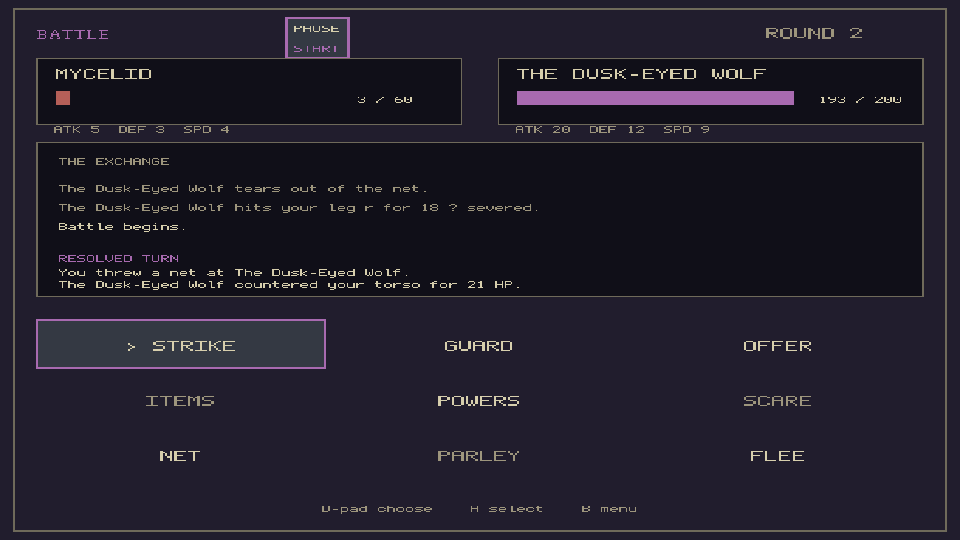
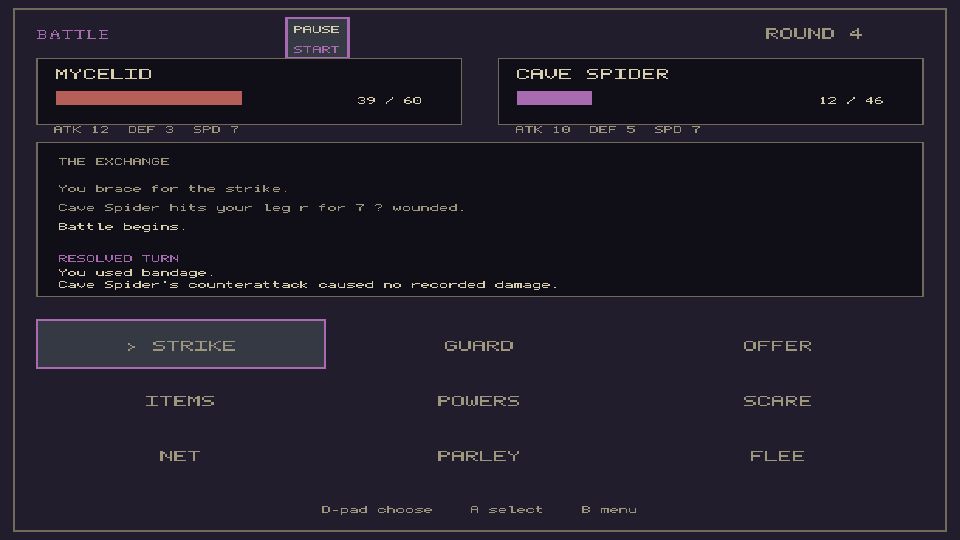
Page: disabled limbs go black and can be bandaged; new battle captures

diff --git a/index.html b/index.html
@@ -247,7 +247,7 @@ footer p+p{margin-top:.8rem}
   <div class="wrap">
     <p class="eyebrow">Captured from the released build</p>
     <h2 class="reveal">Two screens, one game.</h2>
-    <p class="lede reveal">Every frame on this page is a screenshot of the released APK. Nothing is mocked up.
+    <p class="lede reveal">Every frame on this page is a screenshot of the game running. Nothing is mocked up.
       The wide frame is the world display. The smaller ones are the lower display, a real second screen
       that the launcher sets up for you. Click any shot to enlarge it.</p>
 
@@ -292,22 +292,27 @@ footer p+p{margin-top:.8rem}
   <div class="wrap">
     <p class="eyebrow">Battle</p>
     <h2 class="reveal">Aim for the leg. It will aim for yours.</h2>
-    <p class="lede reveal">Fights are turn-based and physical. You pick which part to strike, the creature does
-      the same, and what gets severed stays severed. Losing does not always mean dying.</p>
+    <p class="lede reveal">Fights are turn-based and physical. You pick which part to strike, and the creature does
+      the same. A part beaten to zero goes black and stops working: a dead leg slows you, a dead arm weakens your
+      blows. It mends over time, or you can bandage it mid-fight. Losing does not always mean dying.</p>
 
     <figure class="shot battle-top reveal"><span class="label">World display · battle</span>
-      <img src="art/screens/battle-targeting.jpg" alt="A Mycelid facing the Dusk-Eyed Wolf, with the wolf's torso highlighted as the target" loading="lazy">
-      <figcaption><b>Limb targeting.</b> A Mycelid faces the Dusk-Eyed Wolf, the floor's apex predator. The highlighted part is the one you are about to strike.</figcaption>
+      <img src="art/screens/battle-disabled-limb.jpg" alt="A Mycelid facing a Cave Spider whose front leg has turned black" loading="lazy">
+      <figcaption><b>A disabled leg.</b> The Mycelid struck one Cave Spider leg until it gave out. It stays on the body, black and useless, and the spider is slower for it.</figcaption>
     </figure>
 
     <div class="gallery reveal">
       <figure class="shot"><span class="label">Lower display</span>
         <img src="art/screens/battle-menu.png" alt="The battle menu with the exchange log and nine commands" loading="lazy" class="pixelated">
-        <figcaption><b>The exchange.</b> Both fighters' health, the round blow by blow, and nine commands.</figcaption>
+        <figcaption><b>The exchange.</b> Both fighters' health, what just happened, and nine commands.</figcaption>
       </figure>
       <figure class="shot"><span class="label">Lower display</span>
         <img src="art/screens/battle-target.png" alt="Choosing a target, with health for head, torso and each leg" loading="lazy" class="pixelated">
         <figcaption><b>Choose a target.</b> Every part has its own health. Body health is lethal at zero.</figcaption>
+      </figure>
+      <figure class="shot"><span class="label">Lower display</span>
+        <img src="art/screens/battle-treat-limb.png" alt="The battle items menu with a row to bandage the wounded right leg" loading="lazy" class="pixelated">
+        <figcaption><b>Treat one limb.</b> A bandage can bind the whole body or be aimed at a single hurt limb to get it working again.</figcaption>
       </figure>
       <figure class="shot"><span class="label">Lower display</span>
         <img src="art/screens/battle-parley.png" alt="Parley options: food, retreat, service or threat" loading="lazy" class="pixelated">
@@ -370,7 +375,7 @@ footer p+p{margin-top:.8rem}
         <h2 class="reveal">The Fungal Hollows.</h2>
         <p class="lede reveal">One hand-built floor, and it is big. The demo starts you at Gillhearth Refuge and ends at the way down.</p>
       </div>
-      <figure class="shot reveal"><img src="art/screens/battle-wolf.jpg" alt="A Mycelid squaring up to the Dusk-Eyed Wolf among the mushroom stands" loading="lazy"><figcaption><b>Wolf Run.</b> Some of the named places come with a resident.</figcaption></figure>
+      <figure class="shot reveal"><img src="art/screens/world-den.jpg" alt="Paths through the hollows near the ore spines of the wolf's den" loading="lazy"><figcaption><b>Toward the Ore Wolf's Den.</b> Some of the named places come with a resident.</figcaption></figure>
     </div>
     <div class="stats reveal">
       <div><b>240 × 110</b><span>tiles of map</span></div>
